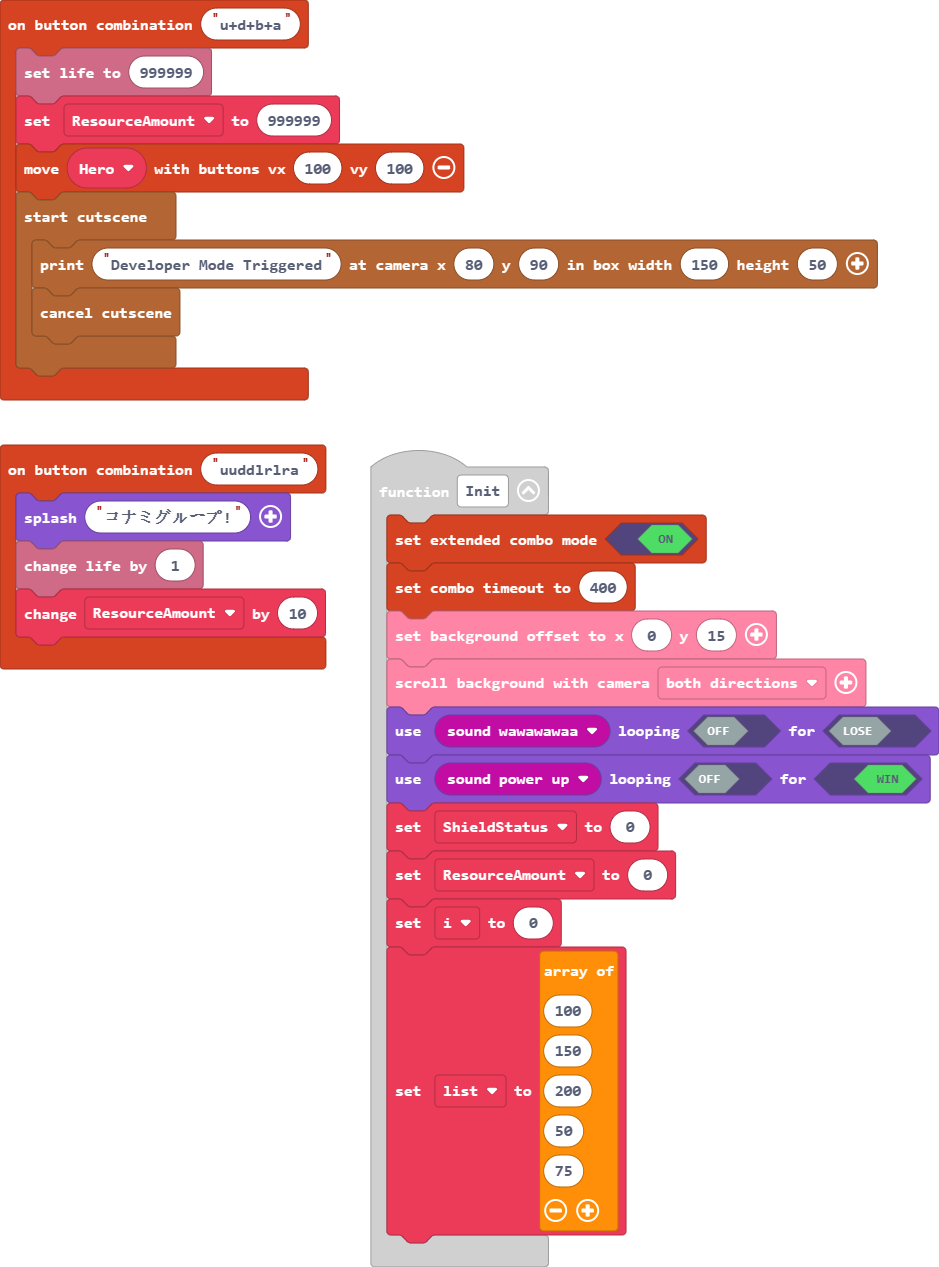
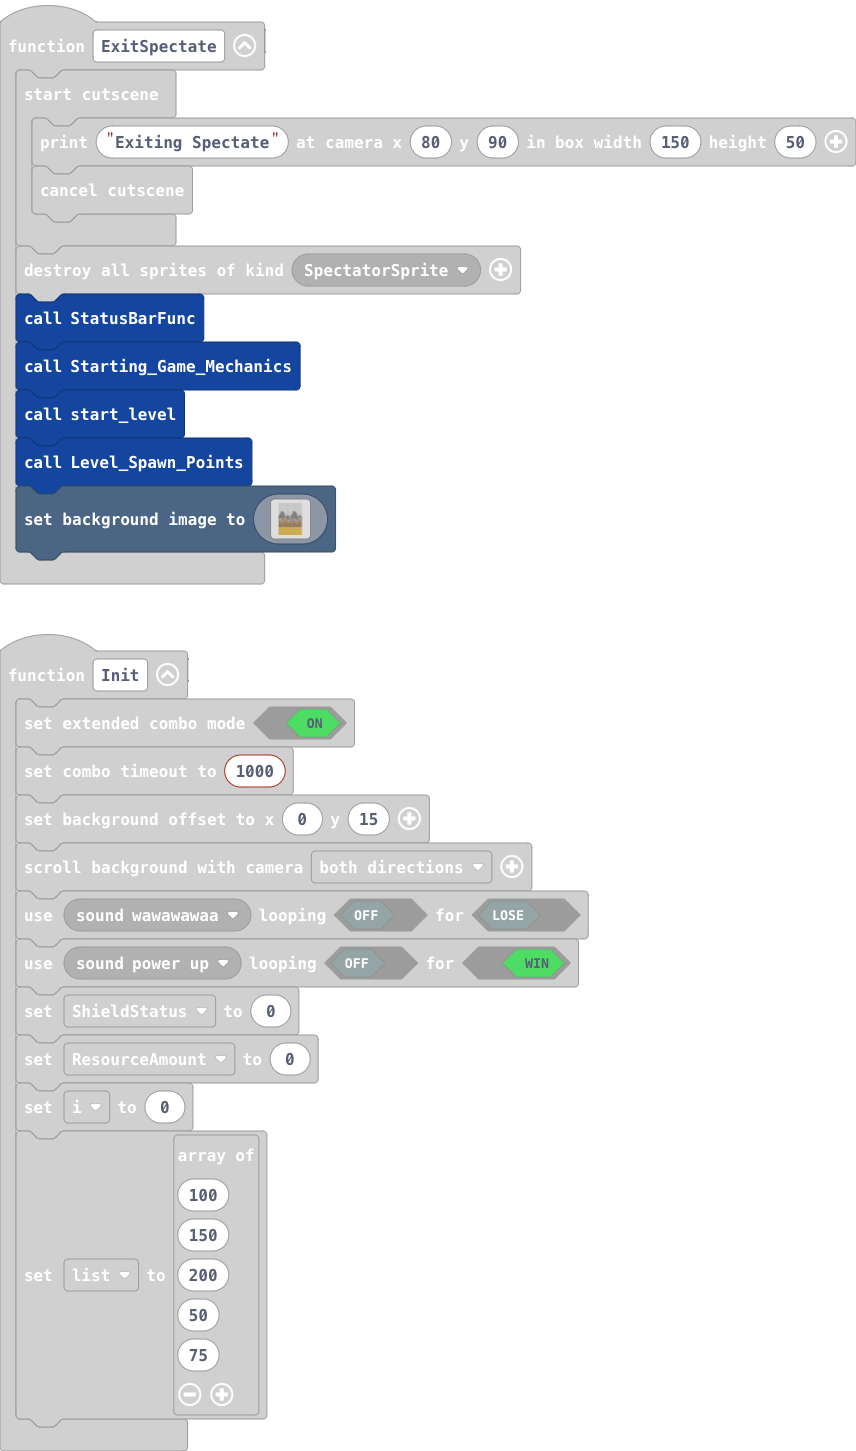
Update main.blocks, main.ts, tilemap.g.jres, tilemap.g.ts

diff --git a/tilemap.g.ts b/tilemap.g.ts
@@ -23,8 +23,6 @@ namespace myTiles {
     //% fixedInstance jres blockIdentity=images._tile
     export const tile7 = image.ofBuffer(hex``);
     //% fixedInstance jres blockIdentity=images._tile
-    export const tile8 = image.ofBuffer(hex``);
-    //% fixedInstance jres blockIdentity=images._tile
     export const tile10 = image.ofBuffer(hex``);
     //% fixedInstance jres blockIdentity=images._tile
     export const tile9 = image.ofBuffer(hex``);
@@ -42,6 +40,16 @@ namespace myTiles {
     export const tile22 = image.ofBuffer(hex``);
     //% fixedInstance jres blockIdentity=images._tile
     export const tile12 = image.ofBuffer(hex``);
+    //% fixedInstance jres blockIdentity=images._tile
+    export const tile8 = image.ofBuffer(hex``);
+    //% fixedInstance jres blockIdentity=images._tile
+    export const tile19 = image.ofBuffer(hex``);
+    //% fixedInstance jres blockIdentity=images._tile
+    export const tile18 = image.ofBuffer(hex``);
+    //% fixedInstance jres blockIdentity=images._tile
+    export const tile20 = image.ofBuffer(hex``);
+    //% fixedInstance jres blockIdentity=images._tile
+    export const tile24 = image.ofBuffer(hex``);
 
     helpers._registerFactory("tilemap", function(name: string) {
         switch(helpers.stringTrim(name)) {
@@ -64,27 +72,8 @@ namespace myTiles {
 . . . . . . . . . . . . . . . . 
 . . . . . . . . . . . . . . . . 
 `, [myTiles.transparency16,myTiles.tile5,myTiles.tile6,sprites.dungeon.chestOpen,myTiles.tile16], TileScale.Sixteen);
-            case "level5":
-            case "level5":return tiles.createTilemap(hex`3700100000000000000000000000000000000000000000000000000000000000000000000000000000000000000000000000000000000000000000000000000000000000000000000000000000000000000000000000000000000000000000000000000000000000000000000000000000000000000000000000000000000000000000000000000000000000000000000000000000000000000000000000000000000000000000000000000000000000000000000000000000000000000000000000000000000000000000000000000000000000000000000000000000000000000000000000000000000000000000000000000000000000000000000000000000000000000000000000000000000000000000000000000000000000000000000000000000000000000000000000000000000000000000000000000000000000000000000000000000000000000000000000000000000000000000000000000000000000000000000000000000000000000000000000000000000000000000000000000000000000000000000000000000000000000000000000000000000000000000000000000000000000000000000000000000000000000000000100000000000000000000000000000000000000000000000000000000000000000000000000000000000000000000000000000000000000000000000000000000000000000000000000000000000000000000000000000000000000000000000000000000000000000000000000000000000000000000000000000000000000000000000000000000000000000000000000000000000000000000000000000000000000000000000000000000000000000000000000000000000000000000000000000000000000000000000000000000000000000000000000000000000000000000000000000000000000000000000000000000000000000000000000000000000000000000000000000000000000000000000000000000000000000000000000000000000000000000000000000000000000000000000000000000000000000000000000000000000000000000000000000000000000000000000000000000000000000000000000000000000000000000000000000000000000000000000002020202020202020202020202020202020202020202020202020202020202020202020202020202020202020202020202020202020202`, img`
-.......................................................
-.......................................................
-.......................................................
-.......................................................
-.......................................................
-.......................................................
-.......................................................
-.......................................................
-.......................................................
-.......................................................
-.......................................................
-.......................................................
-.......................................................
-.......................................................
-.......................................................
-.......................................................
-`, [myTiles.transparency16,myTiles.tile16,myTiles.tile22], TileScale.Sixteen);
             case "level1":
[2 lines of base64/hex data omitted]
 ..................................................
 ..................................................
 ..................................................
@@ -95,13 +84,32 @@ namespace myTiles {
 ..................................................
 ..................................................
 ..................................................
-..................................................
+.................................................2
 ......2...........................................
-2222222222222222222.222.222.222.2.2222222222222222
+2222222222222222222.222.222.222.222222222222222222
 2222222222222222222.............222222222222222222
 2222222222222222222.............222222222222222222
 2222222222222222222.............222222222222222222
-`, [myTiles.transparency16,myTiles.tile5,myTiles.tile16,myTiles.tile22,myTiles.tile23,myTiles.tile14,myTiles.tile4,myTiles.tile3,myTiles.tile7,myTiles.tile8,myTiles.tile10,myTiles.tile21,myTiles.tile1,myTiles.tile11,myTiles.tile9,myTiles.tile13,myTiles.tile17,sprites.dungeon.hazardWater], TileScale.Sixteen);
+`, [myTiles.transparency16,myTiles.tile5,myTiles.tile16,myTiles.tile22,myTiles.tile23,myTiles.tile14,myTiles.tile4,myTiles.tile3,myTiles.tile7,myTiles.tile10,myTiles.tile21,myTiles.tile1,myTiles.tile11,myTiles.tile9,myTiles.tile13,myTiles.tile17,sprites.dungeon.hazardWater], TileScale.Sixteen);
+            case "level5":
[1 lines of base64/hex data omitted]
+.......................................................
+.......................................................
+.......................................................
+.......................................................
+.......................................................
+.......................................................
+.......................................................
+.......................................................
+.......................................................
+.......................................................
+.......................................................
+.......................................................
+22222....222...222..222..222..222..222..222222222222222
+22222....................2.2..2.2..2.2..222222222222222
+22222....................2.2..2.2..2.2..222222222222222
+22222....................2.2..2.2..2.2..222222222222222
+`, [myTiles.transparency16,myTiles.tile16,myTiles.tile22,myTiles.tile7,myTiles.tile9,myTiles.tile17,myTiles.tile13,myTiles.tile11,sprites.dungeon.hazardWater,myTiles.tile18,myTiles.tile12,myTiles.tile19,myTiles.tile20], TileScale.Sixteen);
         }
         return null;
     })
@@ -129,8 +137,6 @@ namespace myTiles {
             case "tile4":return tile4;
             case "myTile5":
             case "tile7":return tile7;
-            case "myTile6":
-            case "tile8":return tile8;
             case "myTile8":
             case "tile10":return tile10;
             case "myTile7":
@@ -149,6 +155,16 @@ namespace myTiles {
             case "tile22":return tile22;
             case "myTile10":
             case "tile12":return tile12;
+            case "myTile6":
+            case "tile8":return tile8;
+            case "myTile16":
+            case "tile19":return tile19;
+            case "myTile15":
+            case "tile18":return tile18;
+            case "myTile17":
+            case "tile20":return tile20;
+            case "myTile18":
+            case "tile24":return tile24;
         }
         return null;
     })

diff --git a/main.ts b/main.ts
@@ -267,6 +267,7 @@ function ExitSpectate () {
         story.cancelCurrentCutscene()
     })
     sprites.destroyAllSpritesOfKind(SpriteKind.SpectatorSprite)
+    StatusBarFunc()
     Starting_Game_Mechanics()
     start_level()
     Level_Spawn_Points()
@@ -782,7 +783,7 @@ function BKeyPressed (OnShield: boolean) {
 }
 function Init () {
     controller.combos.setExtendedComboMode(true)
-    controller.combos.setTimeout(400)
+    controller.combos.setTimeout(1000)
     scroller.setBackgroundScrollOffset(0, 15)
     scroller.scrollBackgroundWithCamera(scroller.CameraScrollMode.BothDirections)
     game.setGameOverPlayable(false, music.melodyPlayable(music.wawawawaa), false)
